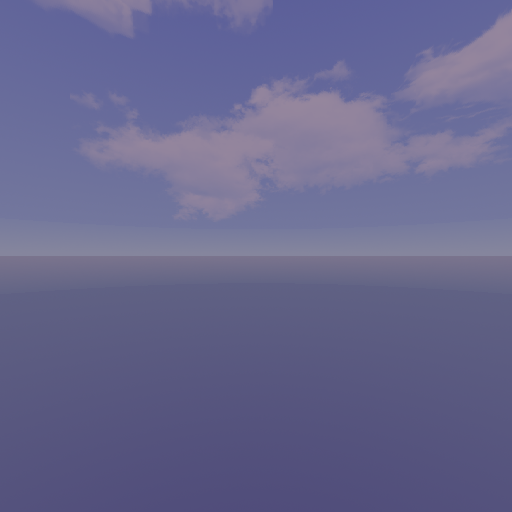
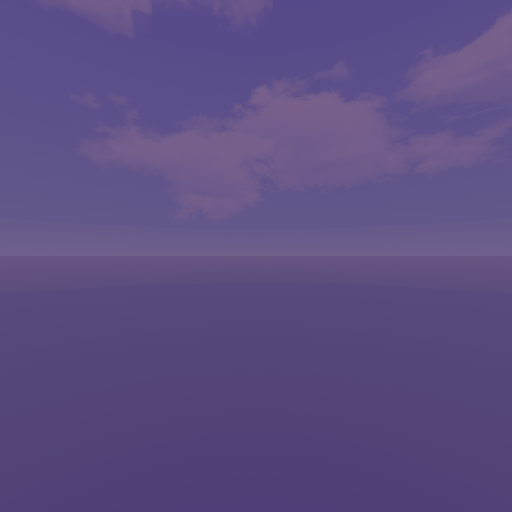
better materials

diff --git a/main.js b/main.js
@@ -17,7 +17,7 @@ import { EffectShader } from "./EffectShader.js";
 async function startShaderDemo() {
   const scene = new THREE.Scene();
   const camera = new THREE.PerspectiveCamera(
-    60,
+    65,
     window.innerWidth / window.innerHeight,
     0.1,
     1000
@@ -27,6 +27,9 @@ async function startShaderDemo() {
   camera.position.y = 2.8;
 
   const renderer = new THREE.WebGLRenderer();
+
+  // renderer.toneMapping = THREE.ACESFilmicToneMapping;
+  // renderer.toneMappingExposure = 1.25;
   renderer.setSize(window.innerWidth, window.innerHeight);
   document.querySelector("#shader").appendChild(renderer.domElement);
 
@@ -67,17 +70,30 @@ async function startShaderDemo() {
 
   const loader = new GLTFLoader();
 
-  const diamond = (await loader.loadAsync("./rubin.glb")).scene;
+  const loadedResult = await loader.loadAsync("./rubin.glb");
+  const diamond = loadedResult.scene;
+
   const animationMixer = new THREE.AnimationMixer(diamond);
-  const clips = diamond.animations;
-  console.log(clips);
+  const clips = loadedResult.animations;
 
   diamond.traverse((obj) => {
     obj.position.set(0, 0, 0);
-    if (obj.name === "Stroke") {
+    console.log(obj);
+    if (obj instanceof THREE.Mesh && obj.name.includes("Plane")) {
+      obj.material = new THREE.MeshPhysicalMaterial({
+        transparent: true,
+        ior: 3,
+        transmission: 0.8,
+        color: "#251138",
+        // // thickness: 0.02,
+        opacity: 0.7,
+        roughness: 0,
+        envMap: environment,
+      });
+    } else if (obj.name.includes("Stroke")) {
       const diamondStroke = makeDiamond(obj.geometry, scene, camera, {
         environment,
-        color: new THREE.Color(1.1, 1.1, 1.1),
+        color: new THREE.Color(1.2, 1.2, 1.2),
       });
       diamondStroke.material.side = THREE.DoubleSide;
 
@@ -87,30 +103,19 @@ async function startShaderDemo() {
       const reflectiveStroke = diamondStroke.clone();
       reflectiveStroke.material = new THREE.MeshPhysicalMaterial({
         transparent: true,
-        ior: 2.4,
+        // ior: 2.4,
         transmission: 0.85,
-        color: 0x110418,
+        color: "#1e0f26",
         thickness: 0.02,
-        opacity: 0.25,
-        roughness: 0.5,
+        opacity: 0.1,
+        roughness: 0.4,
         // envMap: environment,
         // side: THREE.DoubleSide,
       });
       reflectiveStroke.position.set(0, 0, 0);
-      reflectiveStroke.scale.set(1.22, 1.22, 1.22);
+      reflectiveStroke.scale.set(1.01, 1.01, 1.01);
 
-      diamond.add(reflectiveStroke);
-    } else if (obj.name === "Plane") {
-      obj.material = new THREE.MeshPhysicalMaterial({
-        transparent: true,
-        ior: 2.75,
-        transmission: 0.75,
-        color: 0x31114e,
-        thickness: 0.02,
-        opacity: 0.8,
-        roughness: 0.22,
-        envMap: environment,
-      });
+      obj.add(reflectiveStroke);
     }
   });
 
@@ -118,6 +123,11 @@ async function startShaderDemo() {
   diamond.position.set(0, 0, 0);
   scene.add(diamond);
   camera.lookAt(diamond.position);
+
+  clips.forEach((clip) => {
+    const action = animationMixer.clipAction(clip, diamond);
+    action.play();
+  });
 
   const defaultTexture = new THREE.WebGLRenderTarget(
     window.innerWidth,
@@ -153,7 +163,8 @@ async function startShaderDemo() {
 
   function animate() {
     controls.update();
-    diamond.rotation.y += 1 * clock.getDelta();
+    // diamond.rotation.y += 1 * clock.getDelta();
+    animationMixer.update(clock.getDelta());
     renderer.setRenderTarget(defaultTexture);
 
     renderer.render(scene, camera);
@@ -281,12 +292,12 @@ function createLighting(scene) {
   areaLight7.position.set(-0.63, 9.7, -3.36);
   areaLight7.rotation.set(degToRad(-393.34), degToRad(29.553), degToRad(-6.8));
 
-  const spotLight1 = new THREE.SpotLight("#fff", 1000);
-  spotLight1.position.set(-1.39, 11.366, 0.327);
-  spotLight1.rotation.set(degToRad(-5.41), degToRad(1.667), degToRad(-148.37));
+  const spotLight1 = new THREE.DirectionalLight("#fff", 10);
+  spotLight1.position.set(1.5, -10.366, -0.3);
+  spotLight1.rotation.set(degToRad(-5.41), degToRad(1.667), degToRad(148.37));
 
-  const pointLight1 = new THREE.PointLight("#fff", 500);
-  pointLight1.position.set(-5.5, 1.2, -1);
+  const pointLight1 = new THREE.PointLight("#fff", 5000);
+  pointLight1.position.set(-5.5, 0.7, -1);
   // pointLight1.add(
   //   new THREE.Mesh(
   //     new THREE.SphereGeometry(0.1),
@@ -307,18 +318,28 @@ function createLighting(scene) {
   const helper = new THREE.SpotLightHelper(pointLight3);
   // scene.add(helper);
   pointLight3.position.set(0, -4.5, -0.89);
-  pointLight3.lookAt(0, 0, 0);
-  // pointLight3.add(
+  // pointLight3.lookAt(0, 0, 0);
+  // // pointLight3.add(
+  // //   new THREE.Mesh(
+  // //     new THREE.SphereGeometry(0.1),
+  // //     new THREE.MeshBasicMaterial({ color: "lightgreen" })
+  // //   )
+  // // );
+
+  const pointLight4 = new THREE.DirectionalLight("#F5CCFF", 10);
+  pointLight4.position.set(0, -5, 0);
+  pointLight4.lookAt(0, 0, 0);
+  // pointLight4.add(
   //   new THREE.Mesh(
   //     new THREE.SphereGeometry(0.1),
-  //     new THREE.MeshBasicMaterial({ color: "lightgreen" })
+  //     new THREE.MeshBasicMaterial({ color: "yellow" })
   //   )
   // );
 
-  const pointLight4 = new THREE.DirectionalLight("#F5CCFF", 7);
-  pointLight2.position.set(0, -5, -4);
-  pointLight4.lookAt(0, 0, 0);
-  // pointLight2.add(
+  const pointLight5 = new THREE.PointLight("#ffffff", 800);
+  pointLight5.position.set(3, 2, 0.5);
+  // pointLight5.lookAt(0, 0, 0);
+  // pointLight5.add(
   //   new THREE.Mesh(
   //     new THREE.SphereGeometry(0.1),
   //     new THREE.MeshBasicMaterial({ color: "yellow" })
@@ -337,4 +358,5 @@ function createLighting(scene) {
   scene.add(pointLight2);
   scene.add(pointLight3);
   scene.add(pointLight4);
+  scene.add(pointLight5);
 }
